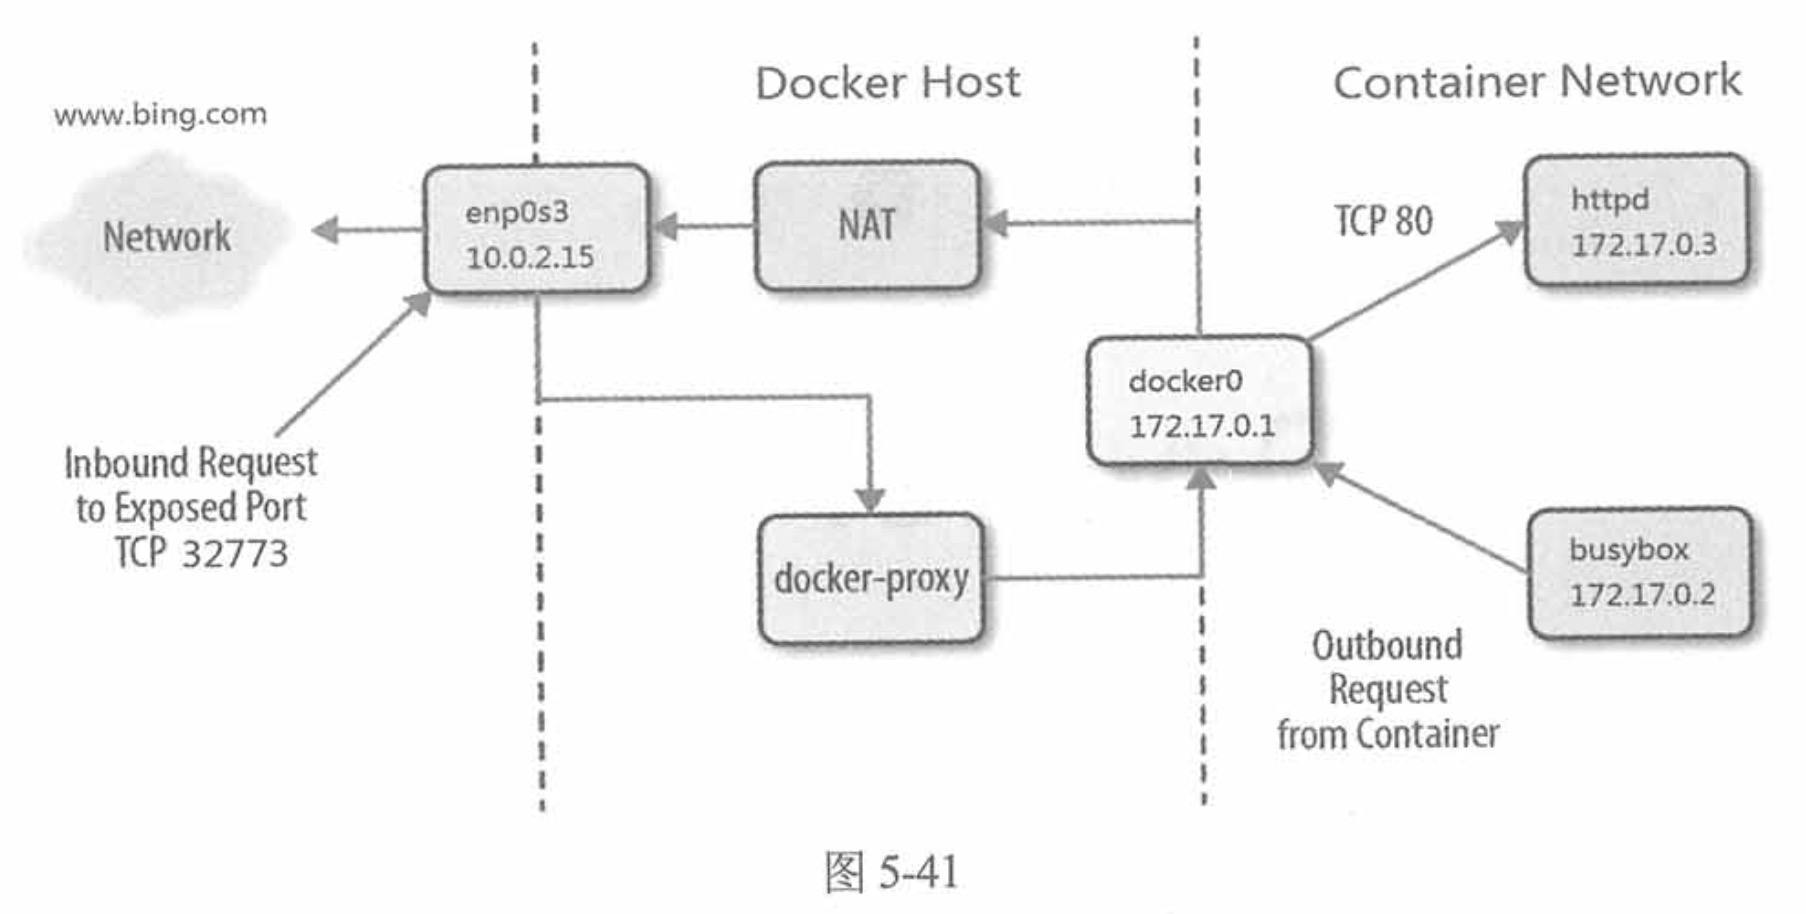
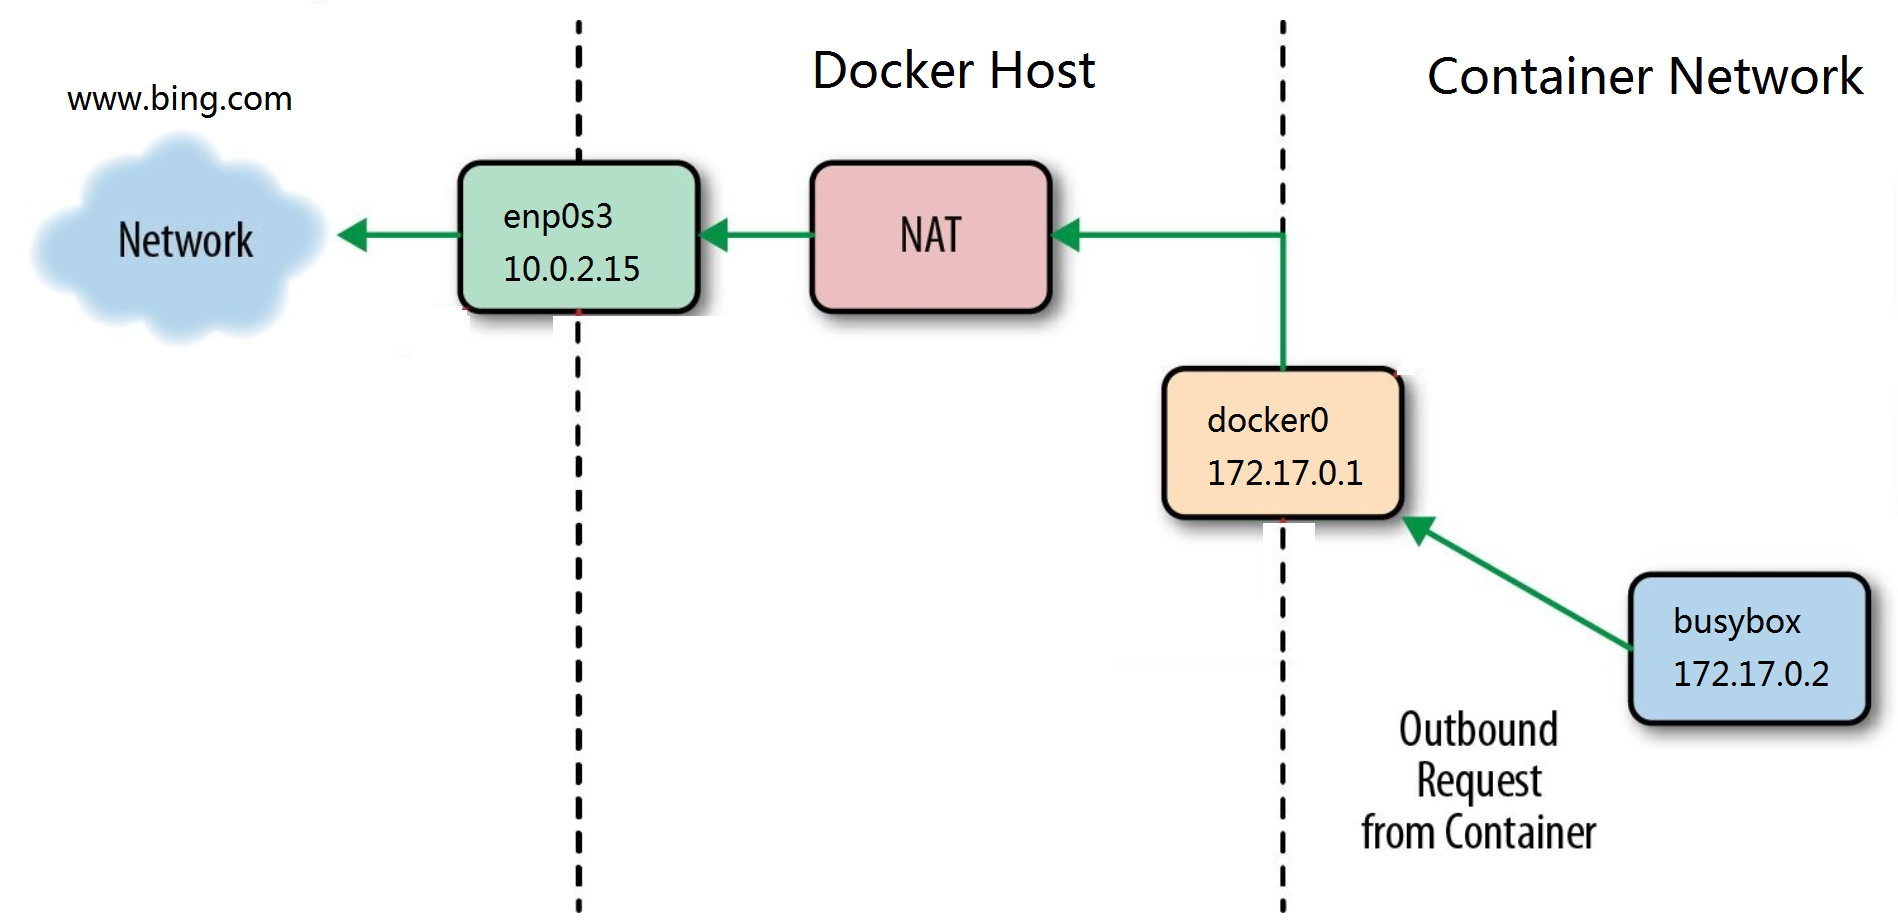
20230215

diff --git a/docker/docker网络.md b/docker/docker网络.md
@@ -8,42 +8,56 @@ Docker 安装时会自动在宿主机上创建三个网络，可以用 `docker n
 <center><img src="pics/docker-network.jpg" width="60%" style="inline"></center>
 
 ### none 网络
-none 就是什么都没有的网络，挂在这个网络下的容器除了 lo 之外，没有其它任何网卡。容器创建时可以通过 `--network=none` 指定 none 网络。
+none 就是什么都没有的网络，挂在这个网络下的容器除了 lo(local lopback) 之外，没有其它任何网卡。容器创建时可以通过 `--network=none` 指定 none 网络。
 
 ### host 网络
 连接到 host 网络的容器共享 host 主机的网络栈，容器的网络配置与宿主机的完全一样。可以通过 `--network=host` 指定 host 网络。在容器中可以看到宿主机所有的网卡。  
 直接使用host 网络最大的好处就是性能。
 
 ### bridge 网络
-Docker 安装时会默认创建一个命名为 docker0 的 Linux bridge。如果不指定 `--network` ，新创建的容器默认都会挂载到 docker0 上。
+Docker 安装时会默认创建一个命名为 bridge 的 Linux bridge。如果不指定 `--network` ，新创建的容器默认都会挂载到 bridge 上。字如其名，bridge 网络类似于虚拟的网桥，容器可以挂载连结到这个网桥上组成局域网。
+<center><img src="pics/docker-bridge.jpg" width="40%"></center>
 
 ### 自定义网络
 除了docker默认安装的三种网络，用户可以根据业务需要创建自定义网络。  
 Docker提供三种自定义网络的驱动：bridge、overlay 和 macvlan 。overlay 和 macvlan 用于创建跨主机网络。
 
-可以通过 bridge 创建类似于 docker 默认安装的 braidge 网络：  
+可以通过 bridge 创建类似于 docker 默认安装的 bridge 网络：  
 `docker network create --driver bridge mynet`  
 还可以通过 `--subnet`和`--gateway`参数指定创建的网络的子网和网关地址:
 `docker network create --driver bridge --subnet=172.22.26.0/24 --gateway=172.22.26.1 mynet2`
 
+创建容器时通过 --network 指定连接到的网络：`docker run -it --network=mynet2 busybox`
+
+不同网桥上的容器默认是不能通信的，如下：
+<center><img src="pics/docker-bridge2.jpg" width="40%"></center>
+
+默认的 docker0 网桥与 mynet2 是隔离的，互相不能通信，要想两个网桥中的容器能够通信，可以通过 `docker network connect mynet2 containerId` 命令将容器连结到另一个网桥中即可:
+<center><img src="pics/docker-bridge3.jpg" width="40%"></center>
+
 ### 容器间通信
 容器之间可以通过 IP、Docker DNS Server 或 joined 容器三种方式通信。
 
-1. IP通信
+1. IP通信  
 	两个容器要能通信必须要有属于同一个网络的网卡，具体做法就是在创建容器的时候通过 `--network=<network>` 指定特定网络，或者通过 `docker network connect <network> <container>` 将现有容器加入到指定网络。
 
-2. Docker DNS Server
+2. Docker DNS Server  
 	通过IP进行通信有一个缺点，就是在部署容器之前可能无法确定容器的IP，这样必须要等容器部署之后在指定IP，会比较麻烦。docker daemon 实现了一个内嵌的 DNS Server，使容器能直接通过容器名通信，只要在创建容器时通过`--name=<container_name>`指定容器名即可。但是，Docker DNS 只能在自定义网络中使用，默认的bridge 网络是无法使用的。
 
-3. Joined 容器
-	Joined 容器非常特别，它能是两个或多个容器共享同一个网络栈、网卡和配置信息，使容器之间可以通过 127.0.0.1 直接通信。只要在创建容器时指定`--network=container:<container_name>`。  
+3. Joined 容器  
+	Joined 容器非常特别，它能是两个或多个容器共享同一个网络栈、网卡和配置信息，使容器之间可以通过 127.0.0.1 直接通信。只要在创建容器时指定`--network=container:<joined_container_name>`。  
 	Joined 适用于容器之间希望通过 loopback 高效快速地通信或者希望监控其它容器的网络流量时。
 
 ### 容器与外部通信
-1. 容器内访问外部网络
-<center><img src="pics/docker-communication.png" width="50%" style="inline"></center>
+1. 容器内访问外部网络-NAT  
+	<center><img src="pics/docker-communication.png" width="60%" style="inline"></center>
 
-2. 外部访问容器内服务
+2. 外部访问容器内服务  
 	端口映射：`-p <host_ip>:<host_port>:<container_port>`
 	每一个映射的端口，host 都会启动一个 docker-proxy 进程来访问容器的流量。
+	<center><img src="pics/docker-proxy.jpg" width="60%" style="inline"></center>
+
+	docker-proxy 监听 host 的 32773 端口。  
+	当 curl 访问 10.0.2.15:32773 时，docker-proxy 转发给容器 172.17.0.2:80。  
+	httpd 容器响应请求并返回结果。
 
